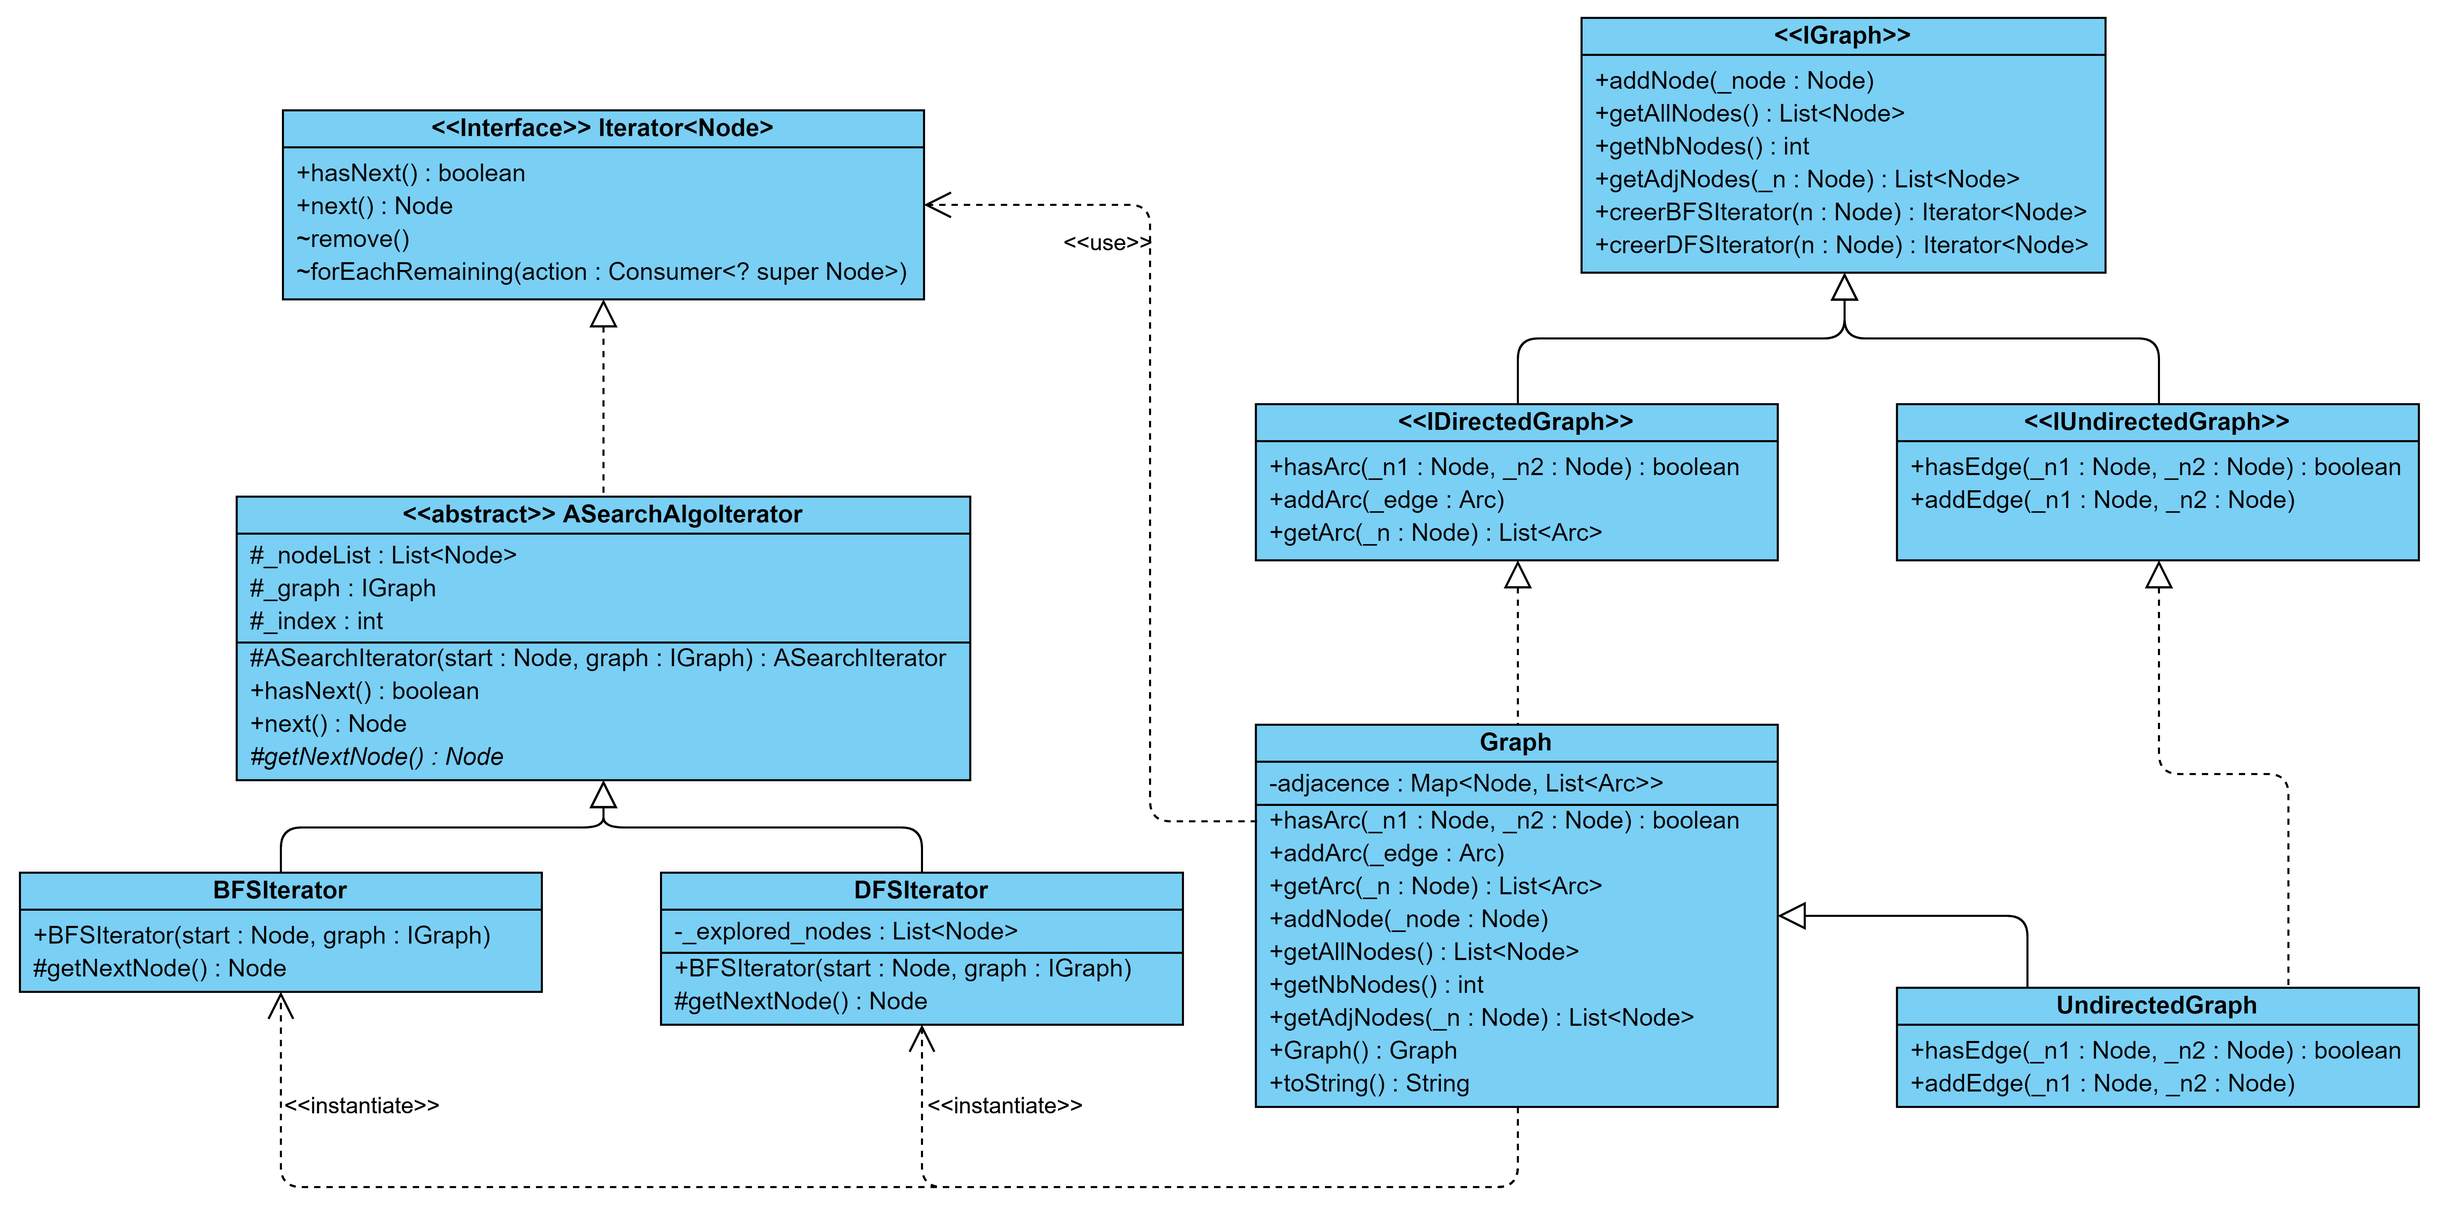
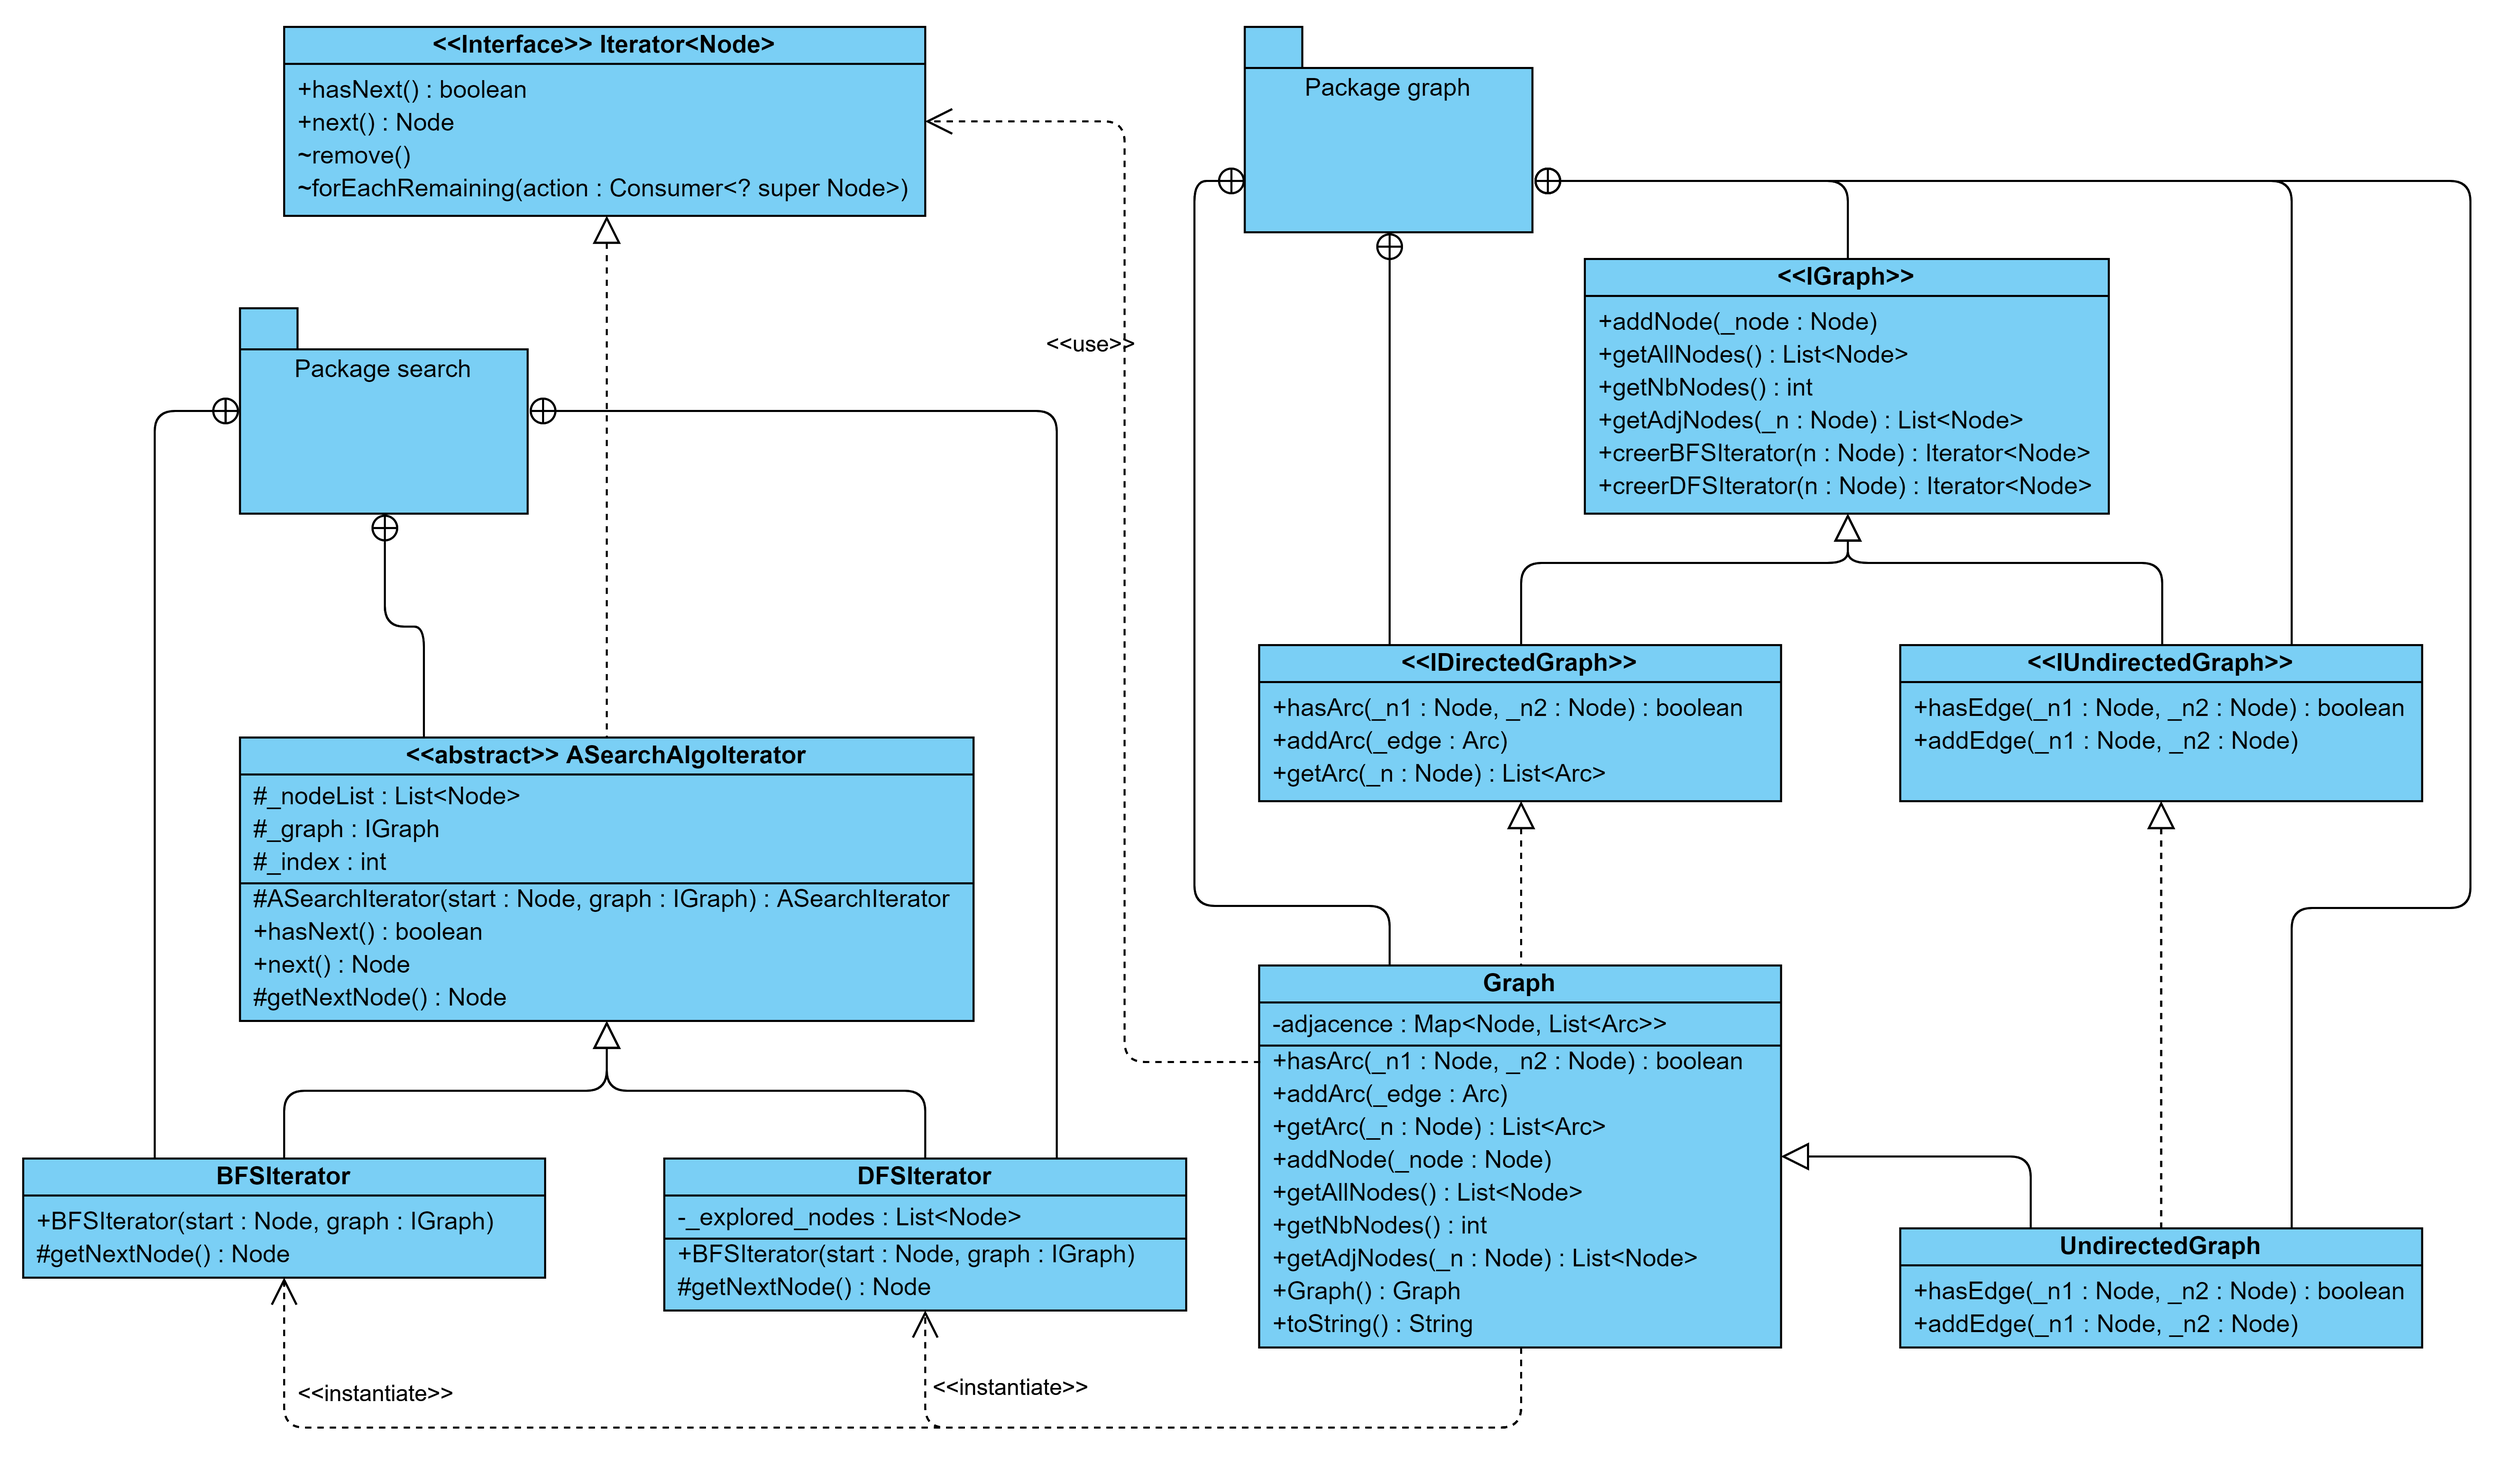
tp1b reorganised --- Report tp1b-q3&4 OK --- TODO : UML diagrams for tp1a

diff --git a/src/main/java/graphe/TestSearch.java b/src/main/java/graphe/TestSearch.java
@@ -2,14 +2,13 @@ package graphe;
 
 import java.util.Iterator;
 
-import graphe.Arc;
-import graphe.Graph;
-import graphe.IDirectedGraph;
-import graphe.IGraph;
-import graphe.IUndirectedGraph;
-import graphe.Node;
-import graphe.StringLabel;
-import graphe.UndirectedGraph;
+import graphe.graph.Arc;
+import graphe.graph.Graph;
+import graphe.graph.IDirectedGraph;
+import graphe.graph.IUndirectedGraph;
+import graphe.graph.Node;
+import graphe.graph.StringLabel;
+import graphe.graph.UndirectedGraph;
 
 public class TestSearch {
 

diff --git a/src/main/java/graphe/TestGraph.java b/src/main/java/graphe/TestGraph.java
@@ -1,12 +1,12 @@
 package graphe;
 
-import graphe.Arc;
-import graphe.DoubleLabel;
-import graphe.Graph;
-import graphe.IDirectedGraph;
-import graphe.IntegerLabel;
-import graphe.Node;
-import graphe.StringLabel;
+import graphe.graph.Arc;
+import graphe.graph.DoubleLabel;
+import graphe.graph.Graph;
+import graphe.graph.IDirectedGraph;
+import graphe.graph.IntegerLabel;
+import graphe.graph.Node;
+import graphe.graph.StringLabel;
 
 public class TestGraph {
 

diff --git a/src/main/java/graphe/search/BFSIterator.java b/src/main/java/graphe/search/BFSIterator.java
@@ -1,4 +1,7 @@
-package graphe;
+package graphe.search;
+
+import graphe.graph.IGraph;
+import graphe.graph.Node;
 
 public class BFSIterator extends ASearchAlgoIterator {
 

diff --git a/src/main/java/graphe/search/ASearchAlgoIterator.java b/src/main/java/graphe/search/ASearchAlgoIterator.java
@@ -1,4 +1,7 @@
-package graphe;
+package graphe.search;
+
+import graphe.graph.IGraph;
+import graphe.graph.Node;
 
 import java.util.ArrayList;
 import java.util.Iterator;

diff --git a/src/main/java/graphe/search/DFSIterator.java b/src/main/java/graphe/search/DFSIterator.java
@@ -1,4 +1,7 @@
-package graphe;
+package graphe.search;
+
+import graphe.graph.IGraph;
+import graphe.graph.Node;
 
 import java.util.ArrayList;
 import java.util.List;

diff --git a/src/main/java/graphe/graph/IGraph.java b/src/main/java/graphe/graph/IGraph.java
@@ -1,8 +1,7 @@
-package graphe;
+package graphe.graph;
 
 import java.util.Iterator;
 import java.util.List;
-import java.util.Set;
 
 public interface IGraph {
 	/**

diff --git a/src/main/java/graphe/graph/IDirectedGraph.java b/src/main/java/graphe/graph/IDirectedGraph.java
@@ -1,7 +1,6 @@
-package graphe;
+package graphe.graph;
 
 import java.util.List;
-import java.util.Set;
 
 public interface IDirectedGraph extends IGraph{
 	/**

diff --git a/src/main/java/graphe/graph/IUndirectedGraph.java b/src/main/java/graphe/graph/IUndirectedGraph.java
@@ -1,7 +1,4 @@
-package graphe;
-
-import java.util.List;
-import java.util.Set;
+package graphe.graph;
 
 public interface IUndirectedGraph extends IGraph{
 

diff --git a/src/main/java/graphe/graph/Graph.java b/src/main/java/graphe/graph/Graph.java
@@ -1,4 +1,7 @@
-package graphe;
+package graphe.graph;
+
+import graphe.search.BFSIterator;
+import graphe.search.DFSIterator;
 
 import java.util.*;
 

diff --git a/src/main/java/graphe/graph/UndirectedGraph.java b/src/main/java/graphe/graph/UndirectedGraph.java
@@ -1,4 +1,4 @@
-package graphe;
+package graphe.graph;
 
 public class UndirectedGraph extends Graph implements IUndirectedGraph {
     /**

diff --git a/src/main/java/graphe/graph/DoubleLabel.java b/src/main/java/graphe/graph/DoubleLabel.java
@@ -1,4 +1,4 @@
-package graphe;
+package graphe.graph;
 
 public class DoubleLabel  implements Label {
 	double label;

diff --git a/src/main/java/graphe/graph/StringLabel.java b/src/main/java/graphe/graph/StringLabel.java
@@ -1,4 +1,4 @@
-package graphe;
+package graphe.graph;
 
 public class StringLabel  implements Label {
 	String label;
